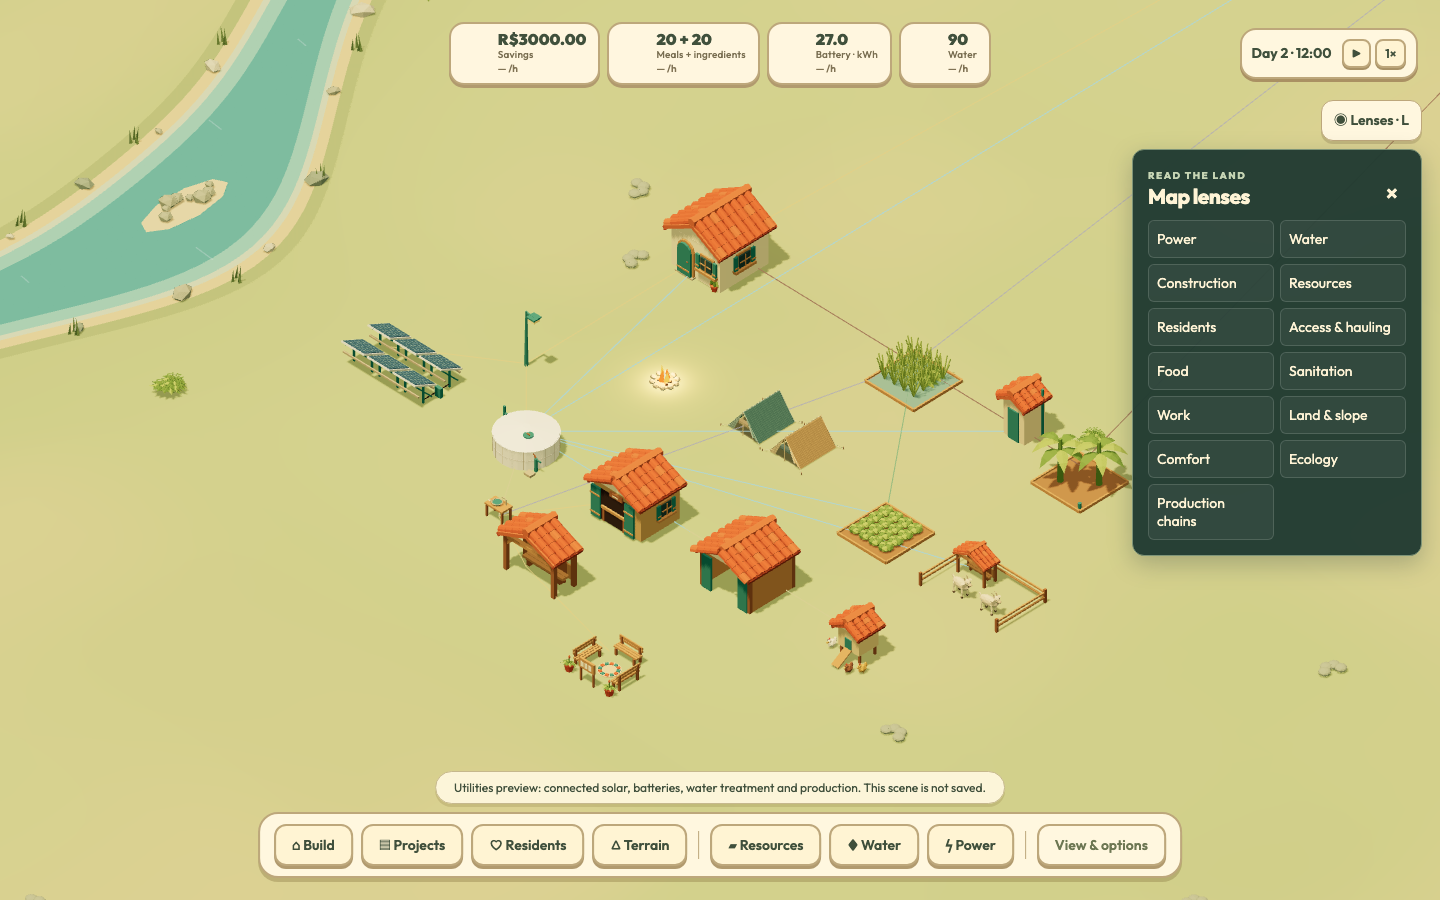
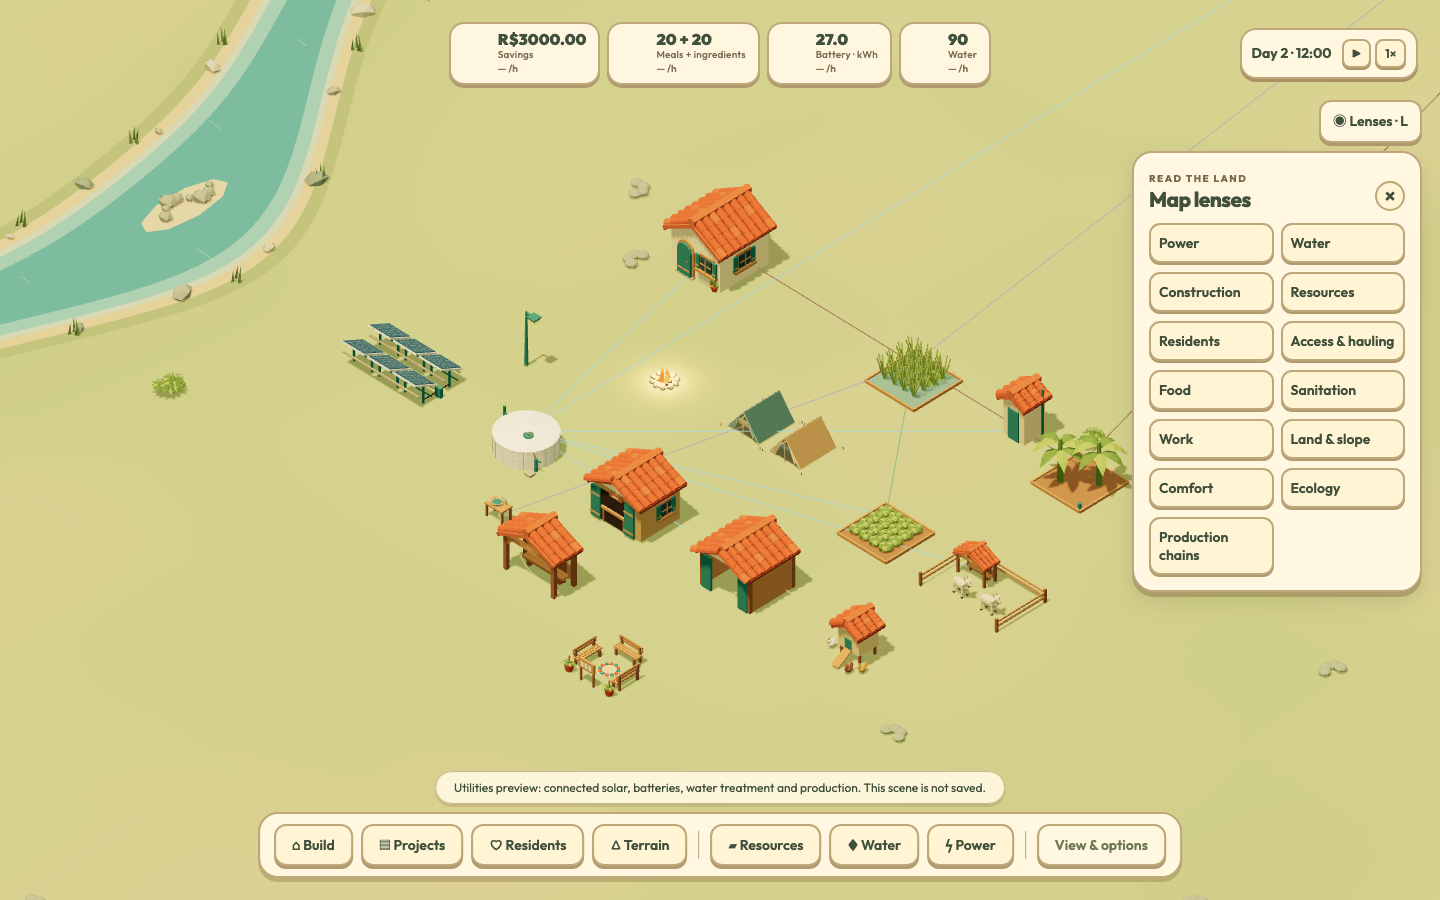
Match lenses to the village paper-panel visual style

Changed region(s): [[0.7812, 0.1244, 1.0, 0.6844]]

diff --git a/web/v02/weekend/lenses.css b/web/v02/weekend/lenses.css
@@ -2,32 +2,39 @@ body[data-lens]:not([data-lens=""]) #world { filter: saturate(.32) brightness(.6
 #lens-overlay { position:fixed; inset:0; width:100%; height:100%; pointer-events:none; z-index:1; }
 #map-lenses { position:fixed; right:18px; top:100px; z-index:5; width:290px; pointer-events:none; }
 #map-lenses button, #map-lenses section, #lens-panel { pointer-events:auto; }
-#lens-toggle { display:block; margin-left:auto; background:#fff7df; border:1px solid #bda77b; box-shadow:0 3px 0 #58482d33; }
-#lens-panel, #lens-legend { margin-top:8px; padding:15px; border:1px solid #7e9478; border-radius:12px; background:#203a31f5; color:#fff4d6; box-shadow:0 8px 24px #142c3240; }
+#lens-toggle { display:block; margin-left:auto; background:var(--paper); border:2px solid var(--edge); box-shadow:0 3px 0 #b19a6e; }
+#lens-panel, #lens-legend { margin-top:8px; padding:15px; border:2px solid var(--edge); border-radius:20px 20px 22px 22px; background:var(--paper); color:var(--ink); box-shadow:0 5px 0 #947c5080, 0 9px 22px #3c482326, inset 0 0 0 4px #fffdf066; }
 #lens-panel { max-height:calc(100vh - 235px); overflow:auto; }
 #lens-legend { max-height:calc(100vh - 235px); overflow:auto; }
 #lens-panel:not([hidden]) + #lens-legend { display:none; }
 .lens-heading { display:flex; align-items:center; justify-content:space-between; gap:8px; }
 .lens-heading h2 { margin:2px 0 12px; font-size:21px; }
-.lens-heading small { letter-spacing:.15em; font-size:10px; color:#c6d5b4; }
-#map-lenses .lens-heading button { background:transparent; color:#fff4d6; border:0; padding:2px 8px; font-size:22px; box-shadow:none; }
-.lens-choices { display:grid; grid-template-columns:1fr 1fr; gap:6px; }
-#map-lenses .lens-choices button { font:inherit; text-align:left; padding:9px 8px; color:#fff4d6; background:#ffffff0c; border:1px solid #ffffff25; box-shadow:none; border-radius:6px; }
-#map-lenses .lens-choices button:hover, #map-lenses .lens-choices button[aria-pressed="true"] { background:#dce8b7; color:#203a31; border-color:#dce8b7; }
+.lens-heading small { letter-spacing:.15em; font-size:10px; color:#7d6949; }
+#map-lenses .lens-heading button { background:#fff4d3; color:var(--ink); border:2px solid var(--edge); border-radius:50%; width:30px; height:30px; padding:0; font-size:20px; line-height:1; box-shadow:none; flex-shrink:0; }
+.lens-choices { display:grid; grid-template-columns:1fr 1fr; gap:9px 7px; }
+#map-lenses .lens-choices button { font:inherit; font-weight:600; text-align:left; padding:9px 8px; color:var(--ink); background:#fff4d3; border:2px solid var(--edge); box-shadow:0 2px 0 #b19a6e; border-radius:11px; }
+#map-lenses .lens-choices button:hover { background:#fffbe9; }
+#map-lenses .lens-choices button[aria-pressed="true"] { background:#e3edc5; border-color:#7b9457; box-shadow:0 2px 0 #6f854b; }
 #lens-description, #lens-count { font-size:12px; line-height:1.5; margin:9px 0; }
-#lens-count { color:#c6d5b4; }
+#lens-count { color:#7d6949; }
 #lens-key { display:flex; flex-wrap:wrap; gap:7px 12px; font-size:11px; margin-top:12px; }
 #lens-filter-label select { width:100%; margin-top:5px; font:inherit; }
 #lens-list { max-height:180px; overflow:auto; margin-top:8px; }
-#map-lenses #lens-list button { display:block; width:100%; text-align:left; background:transparent; color:#fff4d6; border:0; border-bottom:1px solid #ffffff22; border-radius:0; font:inherit; font-size:12px; padding:8px 0; box-shadow:none; }
+#map-lenses #lens-list button { display:block; width:100%; text-align:left; background:transparent; color:var(--ink); border:0; border-bottom:1px dashed #d3c29c; border-radius:0; font:inherit; font-size:12px; padding:8px 0; box-shadow:none; }
 #lens-tooltip { position:fixed; z-index:20; pointer-events:none; width:max-content; max-width:320px; background:#fff7df; color:#273d2c; border:1px solid #bda77b; border-radius:6px; padding:9px 12px; font-size:13px; box-shadow:0 4px 15px #0003; }
 #map-lenses [hidden], #lens-overlay[hidden], #lens-tooltip[hidden] { display:none; }
-#map-lenses :focus-visible { outline:3px solid #ffc76a; outline-offset:3px; }
+#map-lenses :focus-visible { outline:3px solid #bb663d; outline-offset:3px; }
 
 body[data-lens]:not([data-lens=""]) #selection { right:auto; left:22px; }
 
-#map-lenses summary, #lens-filter-label { color:#e1e9cb; }
+#map-lenses summary, #lens-filter-label { color:#6e6047; }
 /* The persistent lens button also needs space after returning to normal view. */
 body[data-lens=""] #selection { top:160px; max-height:calc(100dvh - var(--dock) - 184px); }
 body:has(#lens-panel:not([hidden])) #selection { right:auto; left:22px; }
 #lens-filter { color:#40503c; background:#fff7df; }
+
+#lens-key span { display:inline-flex; align-items:center; gap:5px; color:var(--ink); }
+#lens-key span::before { content:""; width:9px; height:9px; flex-shrink:0; border-radius:3px; background:var(--lens-color); border:1px solid #40503c66; }
+#map-lenses #lens-list button:hover { background:#efe9cf; transform:none; }
+#lens-results { border-top:1px dashed #c8b78e; padding-top:9px; }
+#selection { z-index:4; }

diff --git a/web/v02/weekend/lenses.js b/web/v02/weekend/lenses.js
@@ -32,7 +32,7 @@ export function installLenses({state,camera,world,focus,inspect}) {
     for(const [value,name] of options){const o=document.createElement('option');o.value=value;o.textContent=name;filter.append(o);}filter.value=id==='water'?liquid:material;
     $('lens-key').replaceChildren();
     const key=id==='land'?[['good','Gentle < 10°'],['warn','Slope 10–25°'],['bad','Steep > 25°']]:id==='chains'?[['good','Producer'],['warn','Consumer'],['info','Inputs / shared stock']]:id==='ecology'?[['good','Standing / cultivated'],['warn','Felling queued'],['muted','Cleared']]:id==='power'?[['good','Available / no demand'],['bad','Unmet demand'],['warn','Line under construction'],['muted','Off']]:id==='sanitation'?[['good','Space available'],['bad','Full'],['warn','Pipe under construction'],['muted','Off']]:[['good','Ready / active'],['warn','Waiting / limited'],['bad','Needs attention'],['info','Location'],['muted','Inactive']];
-    for(const [tone,name] of key){const item=document.createElement('span');item.style.color=COLORS[tone];item.textContent=`${glyph[tone]} ${name}`;$('lens-key').append(item);}
+    for(const [tone,name] of key){const item=document.createElement('span');item.style.setProperty('--lens-color',COLORS[tone]);item.textContent=`${glyph[tone]} ${name}`;$('lens-key').append(item);}
     menu(false);
   }
   $('lens-filter').onchange=e=>{if(active==='water')liquid=e.target.value;else material=e.target.value;last=-Infinity;};
